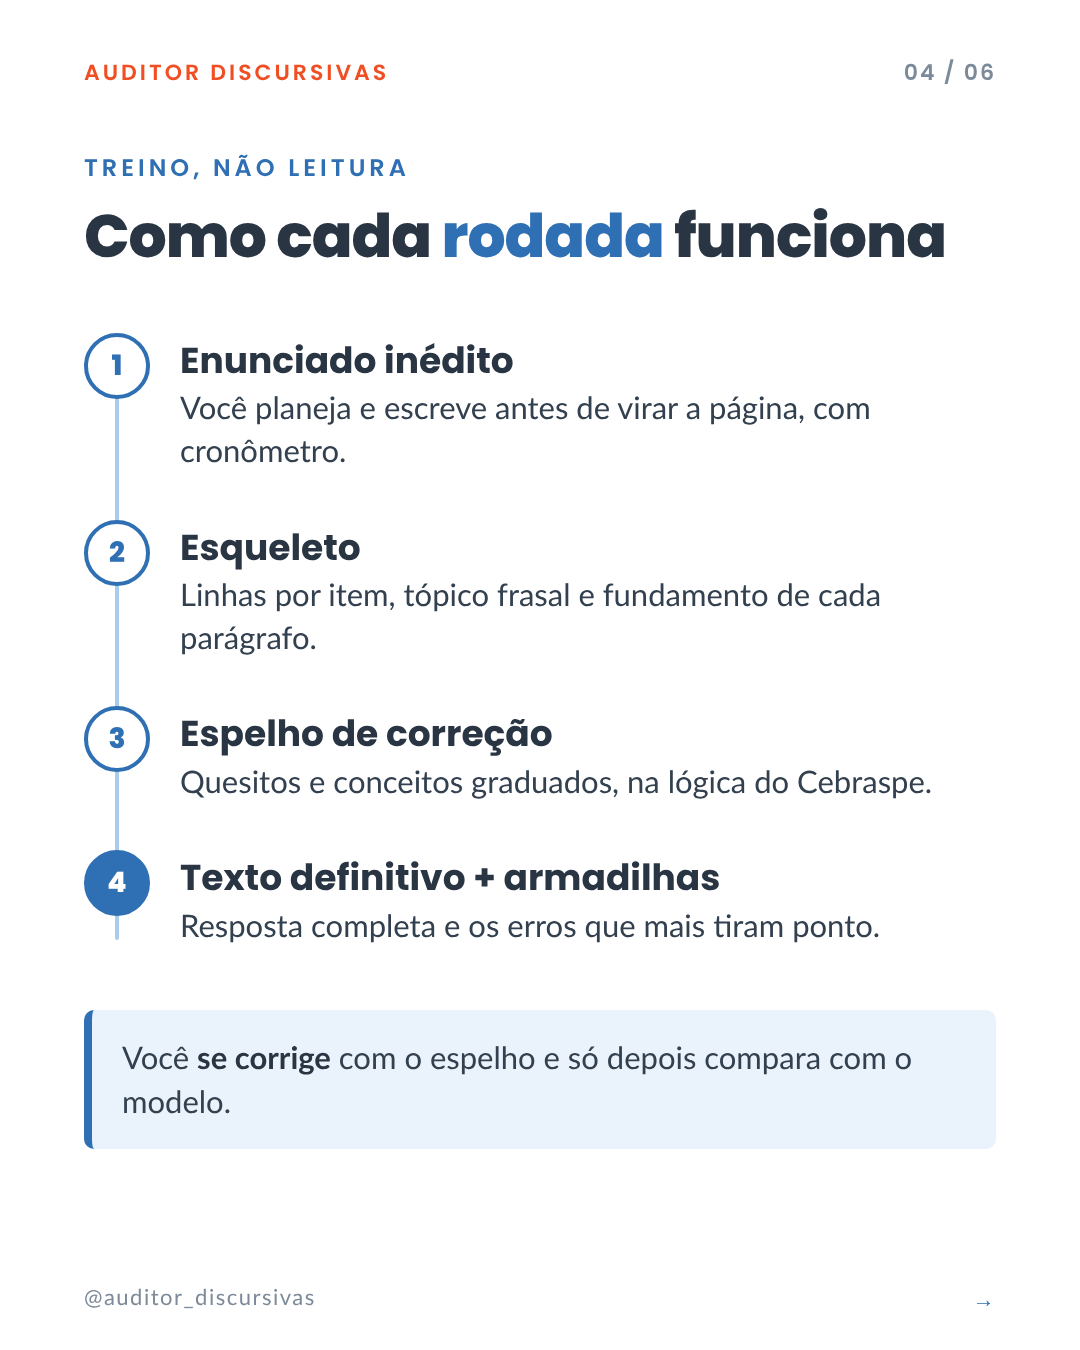
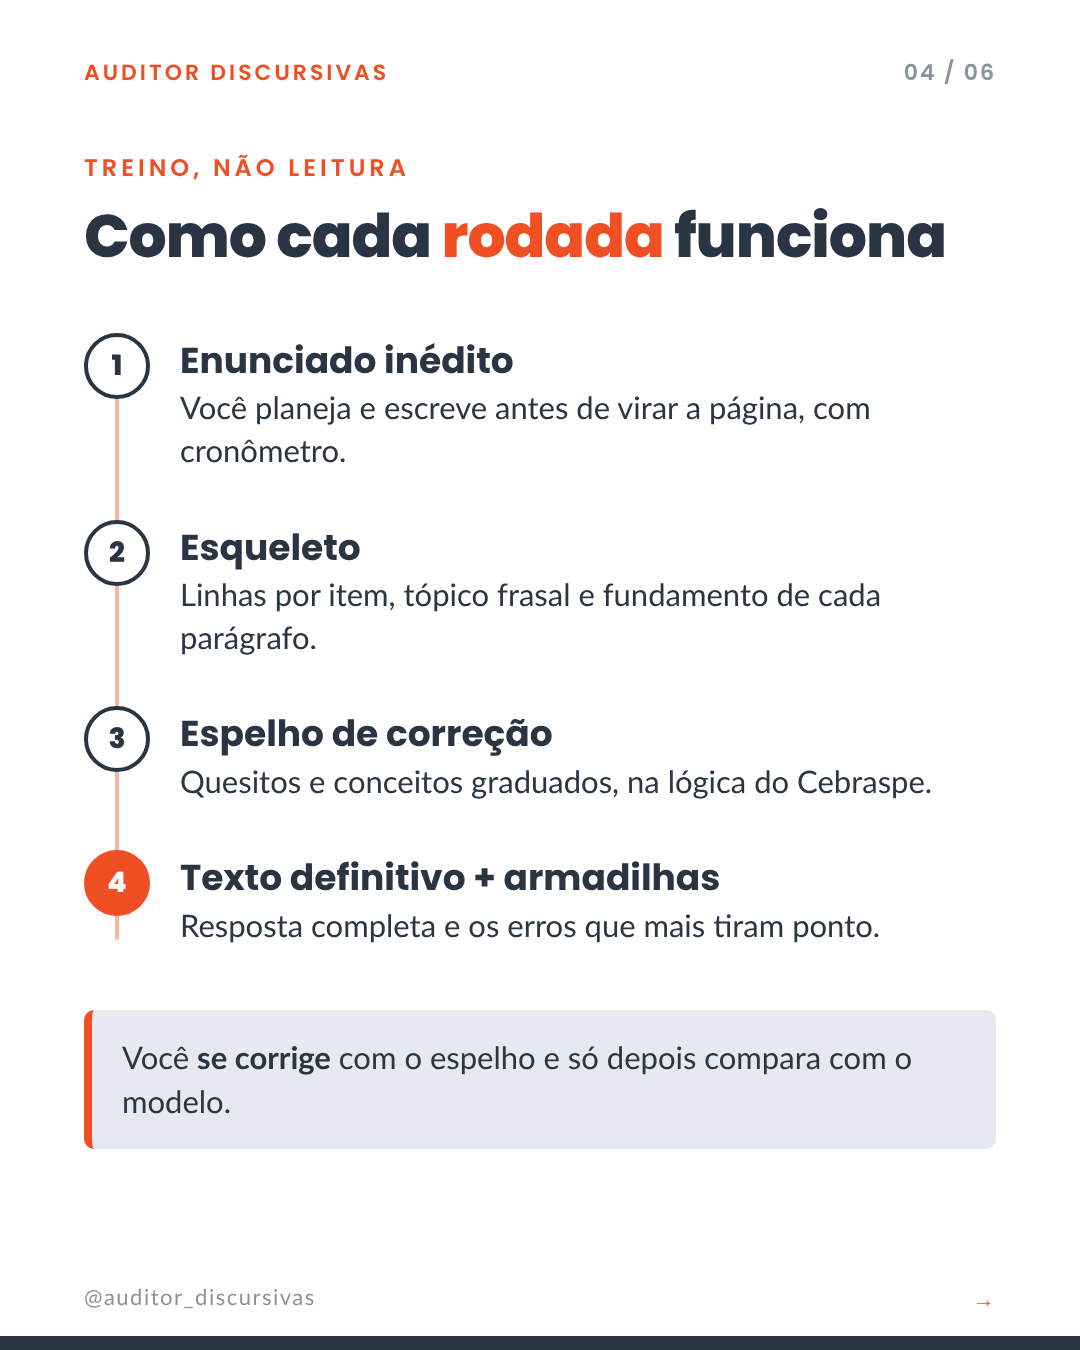
Campanha CGU v3: cores da marca em layout claro + story de prazo 03/11
Claude-Session: https://claude.ai/code/session_01BGezWwnrfWJQtusk51Jx8C

diff --git a/fontes/campanha-cgu-v2/carrossel_cgu_v3.html b/fontes/campanha-cgu-v2/carrossel_cgu_v3.html
@@ -1,0 +1,321 @@
+<!DOCTYPE html>
+<html lang="pt-BR">
+<head>
+<meta charset="utf-8">
+<title>Campanha CGU 2026 (v3, claro com as cores da marca) — carrossel e stories</title>
+<link href="https://fonts.googleapis.com/css2?family=Poppins:wght@600;700;800&family=Lato:wght@400;700;900&display=swap" rel="stylesheet">
+<style>
+:root{
+ --navy:#2A3544; --texto:#2B3644; --laranja:#F04E23;
+ --azul:#2A3544; --azul-med:#5A6676; --azul-claro:#C3CBD5;
+ --ceu:#FFF4EC; --ceu-2:#E6EAF0; --ceu-3:#FFFAF6; --filete:#DDE2E8; --cinza:#8A929B;
+ --cx-laranja:#FFE7D6; --lar-claro:#F7B79E;
+}
+*{box-sizing:border-box;margin:0;padding:0}
+body{background:#D9DEE4;font-family:'Lato',sans-serif;padding:40px;display:flex;flex-direction:column;align-items:center;gap:40px}
+.slide{width:1080px;height:1350px;position:relative;overflow:hidden;background:#fff;flex-shrink:0}
+.story{width:1080px;height:1920px;position:relative;overflow:hidden;flex-shrink:0}
+.claro{background:linear-gradient(165deg,var(--ceu) 0%,var(--ceu-3) 62%,#fff 100%)}
+.topo{position:absolute;top:0;left:0;right:0;padding:56px 84px 0;display:flex;justify-content:space-between;align-items:center}
+.marca{font-family:'Poppins';font-weight:600;font-size:22px;letter-spacing:3px;text-transform:uppercase;color:var(--laranja)}
+.contador{font-family:'Poppins';font-weight:600;font-size:22px;letter-spacing:2px;color:var(--cinza)}
+.rod{position:absolute;bottom:0;left:0;right:0;padding:34px 84px;display:flex;justify-content:space-between;font-size:22px;letter-spacing:1.5px;color:var(--cinza)}
+.rod .seta{color:var(--azul);font-family:'Poppins';font-weight:700}
+.eyebrow{font-family:'Poppins';font-weight:600;font-size:24px;letter-spacing:4px;text-transform:uppercase;color:var(--azul)}
+.rule{width:120px;height:8px;border-radius:4px;background:var(--laranja)}
+.h1{font-family:'Poppins';font-weight:800;font-size:92px;line-height:1.04;color:var(--navy);letter-spacing:-2px}
+.h1 em{font-style:normal;color:var(--azul)}
+.h2{font-family:'Poppins';font-weight:800;font-size:60px;line-height:1.1;color:var(--navy);letter-spacing:-1px}
+.h2 em{font-style:normal;color:var(--azul)}
+.sub{font-size:34px;line-height:1.45;color:var(--texto)}
+.sub b{color:var(--navy)}
+.pills{display:flex;gap:14px;flex-wrap:wrap}
+.pills span{font-family:'Poppins';font-weight:600;font-size:22px;letter-spacing:1.5px;text-transform:uppercase;color:var(--azul);background:#fff;border:2px solid var(--azul-claro);border-radius:40px;padding:10px 22px}
+.pills span.on{background:var(--azul);border-color:var(--azul);color:#fff}
+.corpo{position:absolute;top:150px;left:84px;right:84px}
+/* capa */
+.capa .corpo{top:170px}
+.pdf{position:absolute;right:84px;top:600px;width:330px;height:430px;transform:rotate(5deg)}
+.pdf .pg{position:absolute;inset:0;background:#fff;border-radius:16px;border:2px solid var(--filete);box-shadow:0 18px 40px rgba(47,111,179,.16)}
+.pdf .pg.b{transform:translate(-22px,16px) rotate(-6deg);background:var(--ceu-2)}
+.pdf .pg.c{transform:translate(-40px,30px) rotate(-11deg);background:var(--ceu)}
+.pdf .face{position:absolute;inset:0;padding:34px 30px;display:flex;flex-direction:column;gap:14px}
+.pdf .face .t{font-family:'Poppins';font-weight:800;font-size:34px;line-height:1.08;color:var(--navy)}
+.pdf .face .t span{color:var(--azul)}
+.pdf .face .l{height:12px;border-radius:6px;background:var(--ceu-2)}
+.pdf .face .l.s{width:62%} .pdf .face .l.m{width:84%}
+.pdf .face .tag{margin-top:auto;align-self:flex-start;font-family:'Poppins';font-weight:700;font-size:20px;letter-spacing:2px;color:#fff;background:var(--laranja);border-radius:8px;padding:6px 14px}
+.capa-txt{width:560px}
+.cta{background:var(--laranja);border-radius:18px;padding:30px 38px}
+.cta .a{font-family:'Poppins';font-weight:700;font-size:38px;color:#fff;line-height:1.25}
+.cta .a b{background:#fff;color:var(--laranja);padding:0 14px;border-radius:8px}
+.cta .b{font-size:27px;color:#FFE7D6;margin-top:10px;line-height:1.4}
+/* listas */
+.itens{margin-top:50px;display:flex;flex-direction:column;gap:22px}
+.item{display:flex;gap:26px;align-items:center;background:#fff;border:2px solid var(--filete);border-radius:16px;padding:30px 32px}
+.item .ic{min-width:58px;height:58px;border-radius:14px;background:var(--ceu-2);color:var(--azul);font-family:'Poppins';font-weight:800;font-size:28px;display:flex;align-items:center;justify-content:center}
+.item .t{font-size:35px;line-height:1.3;color:var(--texto)}
+.item .t b{color:var(--navy)}
+.item.dest{background:var(--ceu);border-color:var(--azul-claro)}
+.item.dest .ic{background:var(--azul);color:#fff}
+.grupo{margin-top:50px}
+.grupo .gh{display:flex;justify-content:space-between;align-items:baseline;border-bottom:3px solid var(--azul);padding-bottom:12px;margin-bottom:8px}
+.grupo .gh .n{font-family:'Poppins';font-weight:700;font-size:30px;color:var(--navy)}
+.grupo .gh .v{font-family:'Poppins';font-weight:600;font-size:22px;letter-spacing:2px;text-transform:uppercase;color:var(--azul)}
+.rd{display:flex;gap:24px;align-items:center;padding:26px 0;border-bottom:1px solid var(--filete)}
+.rd:last-child{border-bottom:none}
+.rd .k{min-width:56px;height:56px;border-radius:50%;background:var(--ceu-2);color:var(--azul);font-family:'Poppins';font-weight:800;font-size:26px;display:flex;align-items:center;justify-content:center}
+.rd .t{font-size:35px;line-height:1.3;color:var(--texto)}
+.rd .t b{color:var(--navy)}
+/* passos */
+.passos{margin-top:40px;position:relative}
+.passos:before{content:'';position:absolute;left:31px;top:30px;bottom:30px;width:4px;background:var(--azul-claro);border-radius:2px}
+.ps{display:flex;gap:30px;align-items:flex-start;padding:24px 0;position:relative}
+.ps .k{min-width:66px;height:66px;border-radius:50%;background:#fff;border:4px solid var(--azul);color:var(--azul);font-family:'Poppins';font-weight:800;font-size:28px;display:flex;align-items:center;justify-content:center}
+.ps.fim .k{background:var(--azul);color:#fff}
+.ps .t{padding-top:6px}
+.ps .t .h{font-family:'Poppins';font-weight:700;font-size:36px;color:var(--navy);line-height:1.2}
+.ps .t .d{font-size:31px;line-height:1.38;color:var(--texto);margin-top:4px}
+.nota{margin-top:40px;background:var(--ceu);border-left:8px solid var(--azul);border-radius:10px;padding:26px 30px;font-size:31px;line-height:1.4;color:var(--texto)}
+.nota b{color:var(--navy)}
+/* prévia */
+.formula{margin-top:36px;display:flex;flex-wrap:wrap;gap:12px;align-items:center}
+.formula span{font-family:'Poppins';font-weight:700;font-size:27px;color:var(--navy);background:var(--ceu-2);border-radius:10px;padding:12px 18px}
+.formula i{font-style:normal;font-family:'Poppins';font-weight:800;font-size:28px;color:var(--azul)}
+.cmp{margin-top:44px;border-radius:16px;padding:26px 32px;border:2px solid}
+.cmp .r{font-family:'Poppins';font-weight:700;font-size:22px;letter-spacing:3px;text-transform:uppercase;margin-bottom:10px}
+.cmp .q{font-size:34px;line-height:1.45;color:var(--texto)}
+.cmp.nao{background:#FAFAFB;border-color:#E2E5E9}
+.cmp.nao .r{color:#A0A8B2}
+.cmp.nao .q{color:#8A949F;text-decoration:line-through;text-decoration-color:rgba(240,78,35,.55);text-decoration-thickness:3px}
+.cmp.sim{background:var(--ceu);border-color:var(--azul-claro);margin-top:20px}
+.cmp.sim .r{color:var(--azul)}
+.cmp.sim .q .hl{background:#fff;box-shadow:inset 0 -5px 0 var(--azul-claro);padding:0 2px}
+.fonte{margin-top:30px;font-size:27px;color:var(--cinza);line-height:1.4}
+/* fecho */
+.fecho .corpo{top:170px}
+.autor{display:flex;gap:28px;align-items:center;margin-top:70px}
+.foto{width:150px;height:150px;border-radius:50%;border:6px solid var(--laranja);background:var(--ceu-2) center/cover no-repeat;flex-shrink:0;display:flex;align-items:center;justify-content:center;font-family:'Poppins';font-weight:800;font-size:44px;color:var(--azul)}
+.autor .n{font-family:'Poppins';font-weight:800;font-size:44px;color:var(--navy)}
+.autor .p{font-size:28px;color:var(--azul);margin-top:2px;font-family:'Poppins';font-weight:600}
+.cred{font-size:26px;line-height:1.5;color:var(--texto);margin-top:28px}
+.mini{margin-top:26px;font-size:26px;line-height:1.45;color:var(--cinza)}
+.mini b{color:var(--navy)}
+/* stories */
+.st-in{position:absolute;top:250px;bottom:340px;left:80px;right:80px;display:flex;flex-direction:column;justify-content:center;gap:40px}
+.st-marca{position:absolute;top:150px;left:80px;font-family:'Poppins';font-weight:600;font-size:24px;letter-spacing:3px;text-transform:uppercase;color:var(--laranja)}
+.st-h{font-family:'Poppins';font-weight:800;font-size:112px;line-height:1.03;color:var(--navy);letter-spacing:-2px}
+.st-h em{font-style:normal;color:var(--azul)}
+.st-sub{font-size:42px;line-height:1.4;color:var(--texto)}
+.st-sub b{color:var(--navy)}
+.st-box{background:#fff;border:2px solid var(--filete);border-radius:22px;padding:34px 40px;display:flex;flex-direction:column;gap:22px}
+.st-box .li{display:flex;gap:22px;align-items:center;font-size:42px;line-height:1.3;color:var(--texto)}
+.st-box .li b{color:var(--navy)}
+.st-box .li .k{min-width:60px;height:60px;border-radius:14px;background:var(--ceu-2);color:var(--azul);font-family:'Poppins';font-weight:800;font-size:28px;display:flex;align-items:center;justify-content:center}
+.st-cta{background:var(--laranja);border-radius:24px;padding:40px 44px;text-align:center}
+.st-cta .a{font-family:'Poppins';font-weight:700;font-size:48px;color:#fff;line-height:1.25}
+.st-cta .a b{background:#fff;color:var(--laranja);padding:0 18px;border-radius:10px}
+.st-cta .b{font-size:32px;color:#FFE7D6;margin-top:12px;line-height:1.4}
+.palavra{align-self:center;font-family:'Poppins';font-weight:800;font-size:190px;letter-spacing:6px;color:var(--azul);background:#fff;border:4px dashed var(--azul-claro);border-radius:30px;padding:10px 70px;line-height:1.2}
+
+/* paleta da marca: acentos em laranja */
+.eyebrow{color:var(--laranja)}
+.h1 em,.h2 em,.st-h em,.pdf .face .t span{color:var(--laranja)}
+.rod .seta{color:var(--laranja)}
+.pills span{color:var(--navy);border-color:var(--azul-claro)}
+.pills span.on{background:var(--navy);border-color:var(--navy);color:#fff}
+.item .ic,.rd .k,.st-box .li .k{background:var(--ceu-2);color:var(--navy)}
+.item.dest{background:var(--cx-laranja);border-color:var(--lar-claro)}
+.item.dest .ic{background:var(--laranja);color:#fff}
+.grupo .gh{border-bottom-color:var(--navy)}
+.grupo .gh .v{color:var(--laranja)}
+.passos:before{background:var(--lar-claro)}
+.ps .k{border-color:var(--navy);color:var(--navy)}
+.ps.fim .k{background:var(--laranja);border-color:var(--laranja);color:#fff}
+.nota{background:var(--ceu-2);border-left-color:var(--laranja)}
+.formula span{background:var(--ceu-2)}
+.formula i{color:var(--laranja)}
+.cmp.sim{background:var(--cx-laranja);border-color:var(--lar-claro)}
+.cmp.sim .r{color:var(--laranja)}
+.cmp.sim .q .hl{background:#fff;box-shadow:inset 0 -5px 0 var(--laranja)}
+.autor .p{color:var(--laranja)}
+.palavra{color:var(--navy);border-color:var(--laranja);background:#fff}
+.pdf .pg{box-shadow:0 18px 40px rgba(42,53,68,.14)}
+.pdf .pg.b{background:var(--ceu-2)} .pdf .pg.c{background:var(--cx-laranja)}
+.pdf .face .l{background:var(--ceu-2)}
+.claro{background:linear-gradient(165deg,#FFF1E6 0%,#FFF8F2 55%,#fff 100%)}
+.faixa-n{position:absolute;left:0;right:0;bottom:0;height:14px;background:var(--navy)}
+</style>
+</head>
+<body>
+
+<!-- 01 CAPA -->
+<div class="slide claro capa" data-n="01">
+  <div class="topo"><div class="marca">Auditor Discursivas</div><div class="contador">01 / 06</div></div>
+  <div class="corpo">
+    <div class="capa-txt">
+      <div class="eyebrow">Aula gratuita · PDF</div>
+      <div class="rule" style="margin:26px 0 30px"></div>
+      <div class="h1">Discursiva da <em>CGU</em> 2026</div>
+      <div class="sub" style="margin-top:34px">A questão de <b>30 linhas</b> e a situação-problema de <b>60 linhas</b>, do planejamento ao texto definitivo.</div>
+    </div>
+  </div>
+  <div class="pdf">
+    <div class="pg c"></div><div class="pg b"></div>
+    <div class="pg"><div class="face">
+      <div class="t">Discursiva da <span>CGU</span> 2026</div>
+      <div class="l"></div><div class="l m"></div><div class="l s"></div><div class="l m"></div><div class="l"></div><div class="l s"></div>
+      <div class="tag">45 PÁGINAS</div>
+    </div></div>
+  </div>
+  <div style="position:absolute;left:84px;right:84px;top:1080px">
+    <div class="pills"><span class="on">Cebraspe</span><span>AFFC</span><span>Prova 13/12</span></div>
+  </div>
+  <div class="faixa-n"></div><div class="rod"><div>@auditor_discursivas</div><div class="seta">arraste →</div></div>
+</div>
+
+<!-- 02 O QUE TEM NO PDF -->
+<div class="slide" data-n="02">
+  <div class="topo"><div class="marca">Auditor Discursivas</div><div class="contador">02 / 06</div></div>
+  <div class="corpo">
+    <div class="eyebrow">O que você recebe</div>
+    <div class="h2" style="margin-top:18px">45 páginas sobre a <em>sua</em> prova</div>
+    <div class="itens">
+      <div class="item"><div class="ic">1</div><div class="t"><b>Raio-X do edital:</b> formato, nota mínima e como o Cebraspe desconta erros</div></div>
+      <div class="item"><div class="ic">2</div><div class="t"><b>O que a banca já cobrou</b> em discursivas de controle</div></div>
+      <div class="item"><div class="ic">3</div><div class="t"><b>Roteiro de planejamento</b> em cinco passos</div></div>
+      <div class="item"><div class="ic">4</div><div class="t"><b>O parágrafo que pontua</b>, peça por peça</div></div>
+      <div class="item dest"><div class="ic">5</div><div class="t"><b>Seis rodadas completas</b> com espelho e texto definitivo</div></div>
+      <div class="item"><div class="ic">6</div><div class="t"><b>Gestão das 3h30</b> da tarde e checklist do dia</div></div>
+    </div>
+  </div>
+  <div class="faixa-n"></div><div class="rod"><div>@auditor_discursivas</div><div class="seta">→</div></div>
+</div>
+
+<!-- 03 AS 6 RODADAS -->
+<div class="slide" data-n="03">
+  <div class="topo"><div class="marca">Auditor Discursivas</div><div class="contador">03 / 06</div></div>
+  <div class="corpo">
+    <div class="eyebrow">Temas inéditos, padrão Cebraspe</div>
+    <div class="h2" style="margin-top:18px">As <em>seis rodadas</em></div>
+    <div class="grupo">
+      <div class="gh"><div class="n">Questão</div><div class="v">30 linhas · 30 pts</div></div>
+      <div class="rd"><div class="k">1</div><div class="t"><b>Gestão de riscos</b> e as linhas de defesa</div></div>
+      <div class="rd"><div class="k">2</div><div class="t"><b>Evidência de auditoria</b> na era dos dados</div></div>
+      <div class="rd"><div class="k">3</div><div class="t"><b>Controle interno</b> do Executivo federal</div></div>
+    </div>
+    <div class="grupo">
+      <div class="gh"><div class="n">Situação-problema</div><div class="v">60 linhas · 70 pts</div></div>
+      <div class="rd"><div class="k">4</div><div class="t"><b>Convênio de obra:</b> pagamento sem execução</div></div>
+      <div class="rd"><div class="k">5</div><div class="t"><b>Emendas Pix</b> sem rastreabilidade</div></div>
+      <div class="rd"><div class="k">6</div><div class="t"><b>Conluio em pregão</b> e acordo de leniência</div></div>
+    </div>
+  </div>
+  <div class="faixa-n"></div><div class="rod"><div>@auditor_discursivas</div><div class="seta">→</div></div>
+</div>
+
+<!-- 04 COMO CADA RODADA FUNCIONA -->
+<div class="slide" data-n="04">
+  <div class="topo"><div class="marca">Auditor Discursivas</div><div class="contador">04 / 06</div></div>
+  <div class="corpo">
+    <div class="eyebrow">Treino, não leitura</div>
+    <div class="h2" style="margin-top:18px">Como cada <em>rodada</em> funciona</div>
+    <div class="passos">
+      <div class="ps"><div class="k">1</div><div class="t"><div class="h">Enunciado inédito</div><div class="d">Você planeja e escreve antes de virar a página, com cronômetro.</div></div></div>
+      <div class="ps"><div class="k">2</div><div class="t"><div class="h">Esqueleto</div><div class="d">Linhas por item, tópico frasal e fundamento de cada parágrafo.</div></div></div>
+      <div class="ps"><div class="k">3</div><div class="t"><div class="h">Espelho de correção</div><div class="d">Quesitos e conceitos graduados, na lógica do Cebraspe.</div></div></div>
+      <div class="ps fim"><div class="k">4</div><div class="t"><div class="h">Texto definitivo + armadilhas</div><div class="d">Resposta completa e os erros que mais tiram ponto.</div></div></div>
+    </div>
+    <div class="nota">Você <b>se corrige</b> com o espelho e só depois compara com o modelo.</div>
+  </div>
+  <div class="faixa-n"></div><div class="rod"><div>@auditor_discursivas</div><div class="seta">→</div></div>
+</div>
+
+<!-- 05 PRÉVIA -->
+<div class="slide" data-n="05">
+  <div class="topo"><div class="marca">Auditor Discursivas</div><div class="contador">05 / 06</div></div>
+  <div class="corpo">
+    <div class="eyebrow">Prévia da aula</div>
+    <div class="h2" style="margin-top:18px">O parágrafo que <em>pontua</em></div>
+    <div class="formula"><span>Tópico frasal</span><i>+</i><span>Fundamento</span><i>+</i><span>Aplicação ao caso</span><i>+</i><span>Fechamento</span></div>
+    <div class="cmp nao"><div class="r">Assim não pontua</div><div class="q">“No mundo contemporâneo, em que a sociedade exige cada vez mais transparência, é importante discutir o papel das ouvidorias...”</div></div>
+    <div class="cmp sim"><div class="r">Assim pontua</div><div class="q">“As ouvidorias, <span class="hl">nos termos da Lei n.º 13.460/2017</span>, recebem, analisam e encaminham as manifestações dos usuários, entre elas as denúncias.”</div></div>
+    <div class="fonte">O corretor procura o quesito na primeira frase. Na aula, cada rodada aplica essa estrutura.</div>
+  </div>
+  <div class="faixa-n"></div><div class="rod"><div>@auditor_discursivas</div><div class="seta">→</div></div>
+</div>
+
+<!-- 06 FECHO -->
+<div class="slide claro fecho" data-n="06">
+  <div class="topo"><div class="marca">Auditor Discursivas</div><div class="contador">06 / 06</div></div>
+  <div class="corpo">
+    <div class="eyebrow">É de graça</div>
+    <div class="h2" style="margin-top:18px;font-size:72px">Quer a aula no seu <em>direct</em>?</div>
+    <div class="cta" style="margin-top:46px">
+      <div class="a">Comente <b>CGU</b> aqui embaixo</div>
+      <div class="b">ou mande CGU no direct: o PDF é enviado na hora.</div>
+    </div>
+    <div class="autor">
+      <div class="foto">SW</div>
+      <div><div class="n">Samuel Wolf</div><div class="p">Recursos de provas discursivas</div></div>
+    </div>
+    <div class="cred">Engenheiro pelo ITA · Auditor de Controle Externo do TCE-RJ · Nomeado Auditor Fiscal da SEFAZ-RS e da SEFIN Manaus</div>
+    <div class="mini">Salve este post e <b>mande para quem vai fazer a CGU</b>.</div>
+  </div>
+  <div class="faixa-n"></div><div class="rod"><div>@auditor_discursivas</div><div>aula gratuita</div></div>
+</div>
+
+<!-- STORIES -->
+<div class="story claro" data-n="st01">
+  <div class="st-marca">Auditor Discursivas</div>
+  <div class="st-in">
+    <div class="eyebrow" style="font-size:30px">Aula gratuita · PDF</div>
+    <div class="st-h">Discursiva da <em>CGU</em> 2026</div>
+    <div class="st-box">
+      <div class="li"><div class="k">45</div><div>páginas sobre a <b>sua</b> prova</div></div>
+      <div class="li"><div class="k">6</div><div>rodadas com <b>espelho</b> e texto definitivo</div></div>
+      <div class="li"><div class="k">✓</div><div>questão de <b>30</b> e caso de <b>60 linhas</b></div></div>
+    </div>
+    <div class="st-sub">Para quem vai fazer a prova do <b>AFFC</b> em <b>13 de dezembro</b>.</div>
+  </div>
+</div>
+
+<div class="story" data-n="st02" style="background:#fff">
+  <div class="st-marca">Auditor Discursivas</div>
+  <div class="st-in" style="gap:30px">
+    <div class="eyebrow" style="font-size:30px">Prévia da aula</div>
+    <div class="st-h" style="font-size:84px">O parágrafo que <em>pontua</em></div>
+    <div class="cmp nao" style="margin-top:6px"><div class="r" style="font-size:26px">Assim não pontua</div><div class="q" style="font-size:36px">“No mundo contemporâneo, em que a sociedade exige cada vez mais transparência...”</div></div>
+    <div class="cmp sim" style="margin-top:0"><div class="r" style="font-size:26px">Assim pontua</div><div class="q" style="font-size:36px">“As ouvidorias, <span class="hl">nos termos da Lei n.º 13.460/2017</span>, recebem, analisam e encaminham as manifestações dos usuários...”</div></div>
+    <div class="st-sub" style="font-size:38px">Resposta na <b>primeira frase</b>, com norma. A aula treina isso em seis rodadas.</div>
+  </div>
+</div>
+
+<div class="story claro" data-n="st03">
+  <div class="st-marca">Auditor Discursivas</div>
+  <div class="st-in" style="align-items:stretch">
+    <div class="st-h" style="text-align:center;font-size:88px">Quer a aula?<br>Mande no <em>direct</em>:</div>
+    <div class="palavra">CGU</div>
+    <div class="st-cta"><div class="a">O PDF chega <b>na hora</b></div><div class="b">Gratuito · 45 páginas · seis rodadas</div></div>
+    <div class="autor" style="margin-top:10px;justify-content:center">
+      <div class="foto">SW</div>
+      <div><div class="n" style="font-size:40px">Samuel Wolf</div><div class="p">@auditor_discursivas</div></div>
+    </div>
+  </div>
+</div>
+
+
+<div class="story claro" data-n="st04">
+  <div class="st-marca">Auditor Discursivas</div>
+  <div class="st-in">
+    <div class="eyebrow" style="font-size:30px">CGU 2026 · AFFC</div>
+    <div class="st-h" style="font-size:104px">Já fez a sua <em>inscrição</em>?</div>
+    <div class="st-box">
+      <div class="li"><div class="k">!</div><div>Inscrições até <b>amanhã, 04/11, às 18h</b></div></div>
+      <div class="li"><div class="k">✓</div><div>Prova em <b>13 de dezembro</b>, com discursiva à tarde</div></div>
+    </div>
+    <div class="st-cta"><div class="a">Mande <b>CGU</b> no direct</div><div class="b">e receba a aula gratuita da discursiva (PDF)</div></div>
+  </div>
+</div>
+</body>
+</html>
